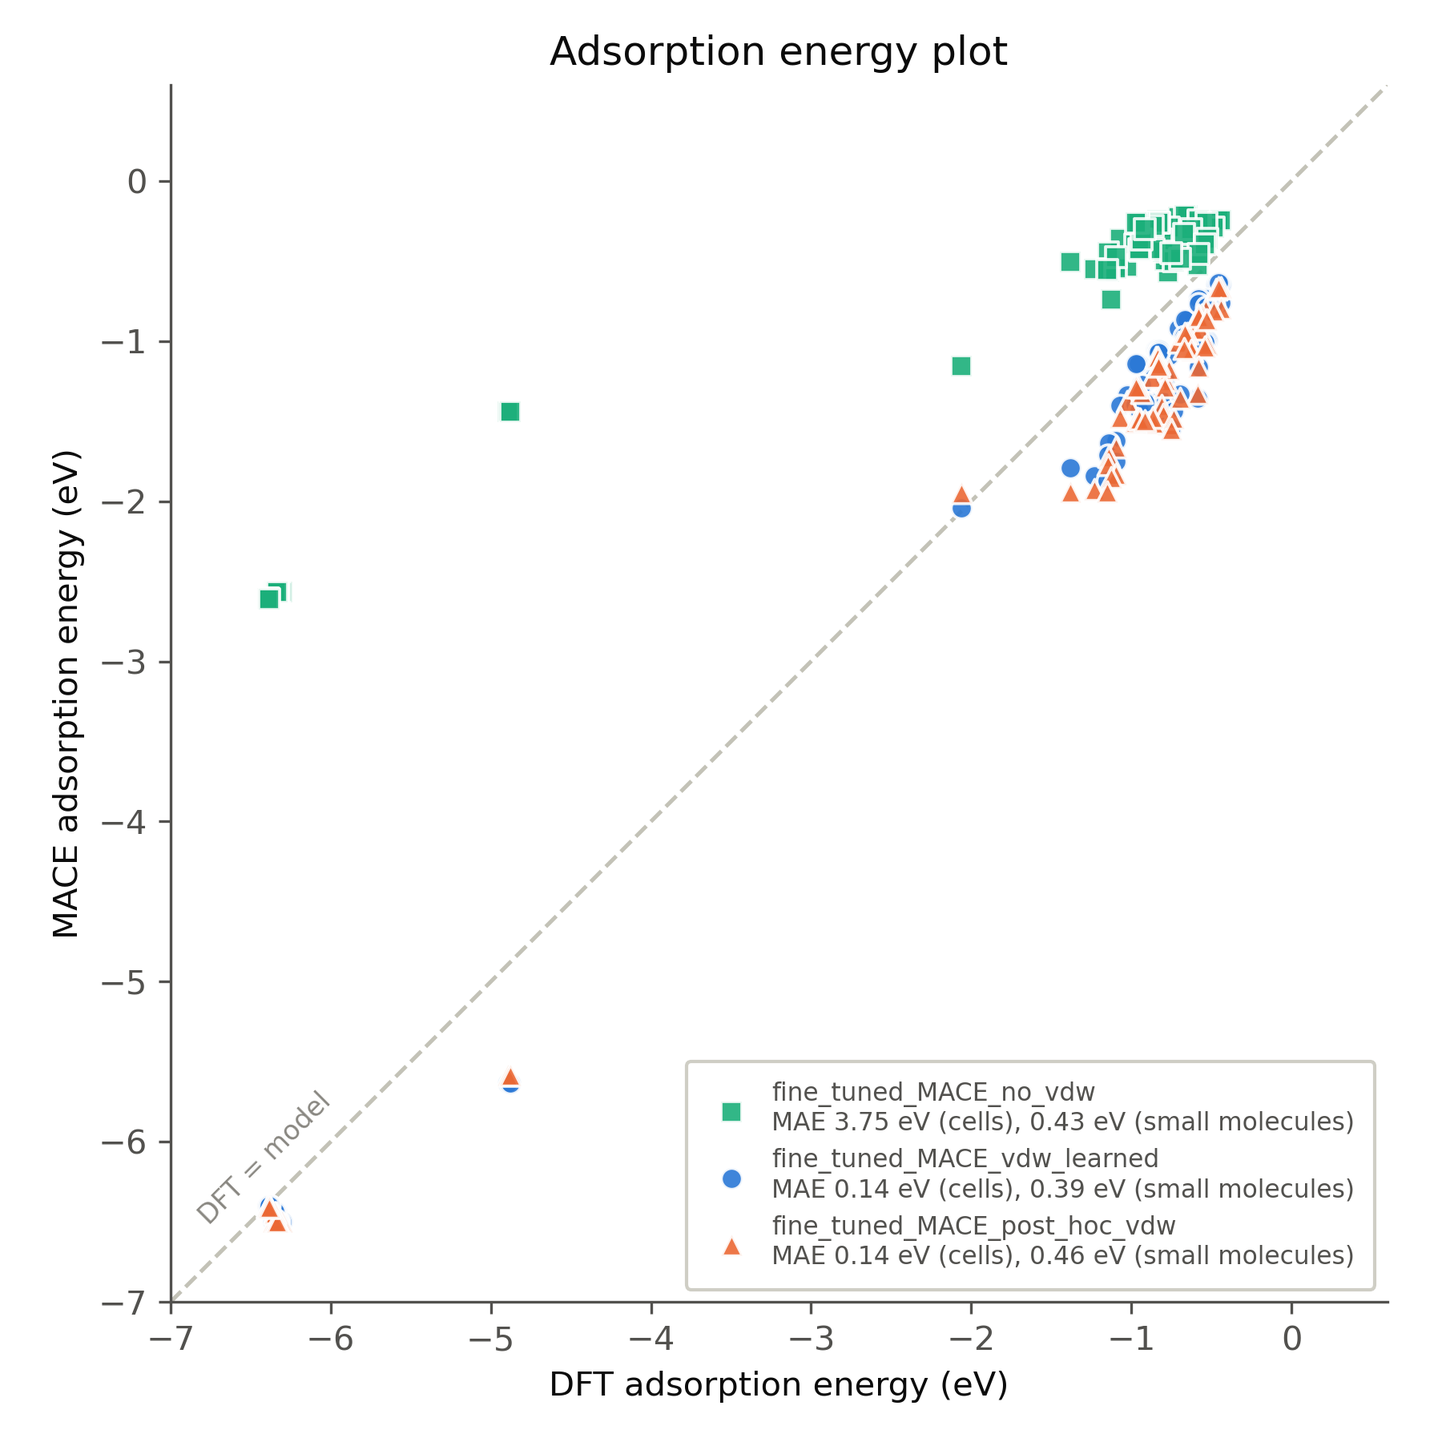
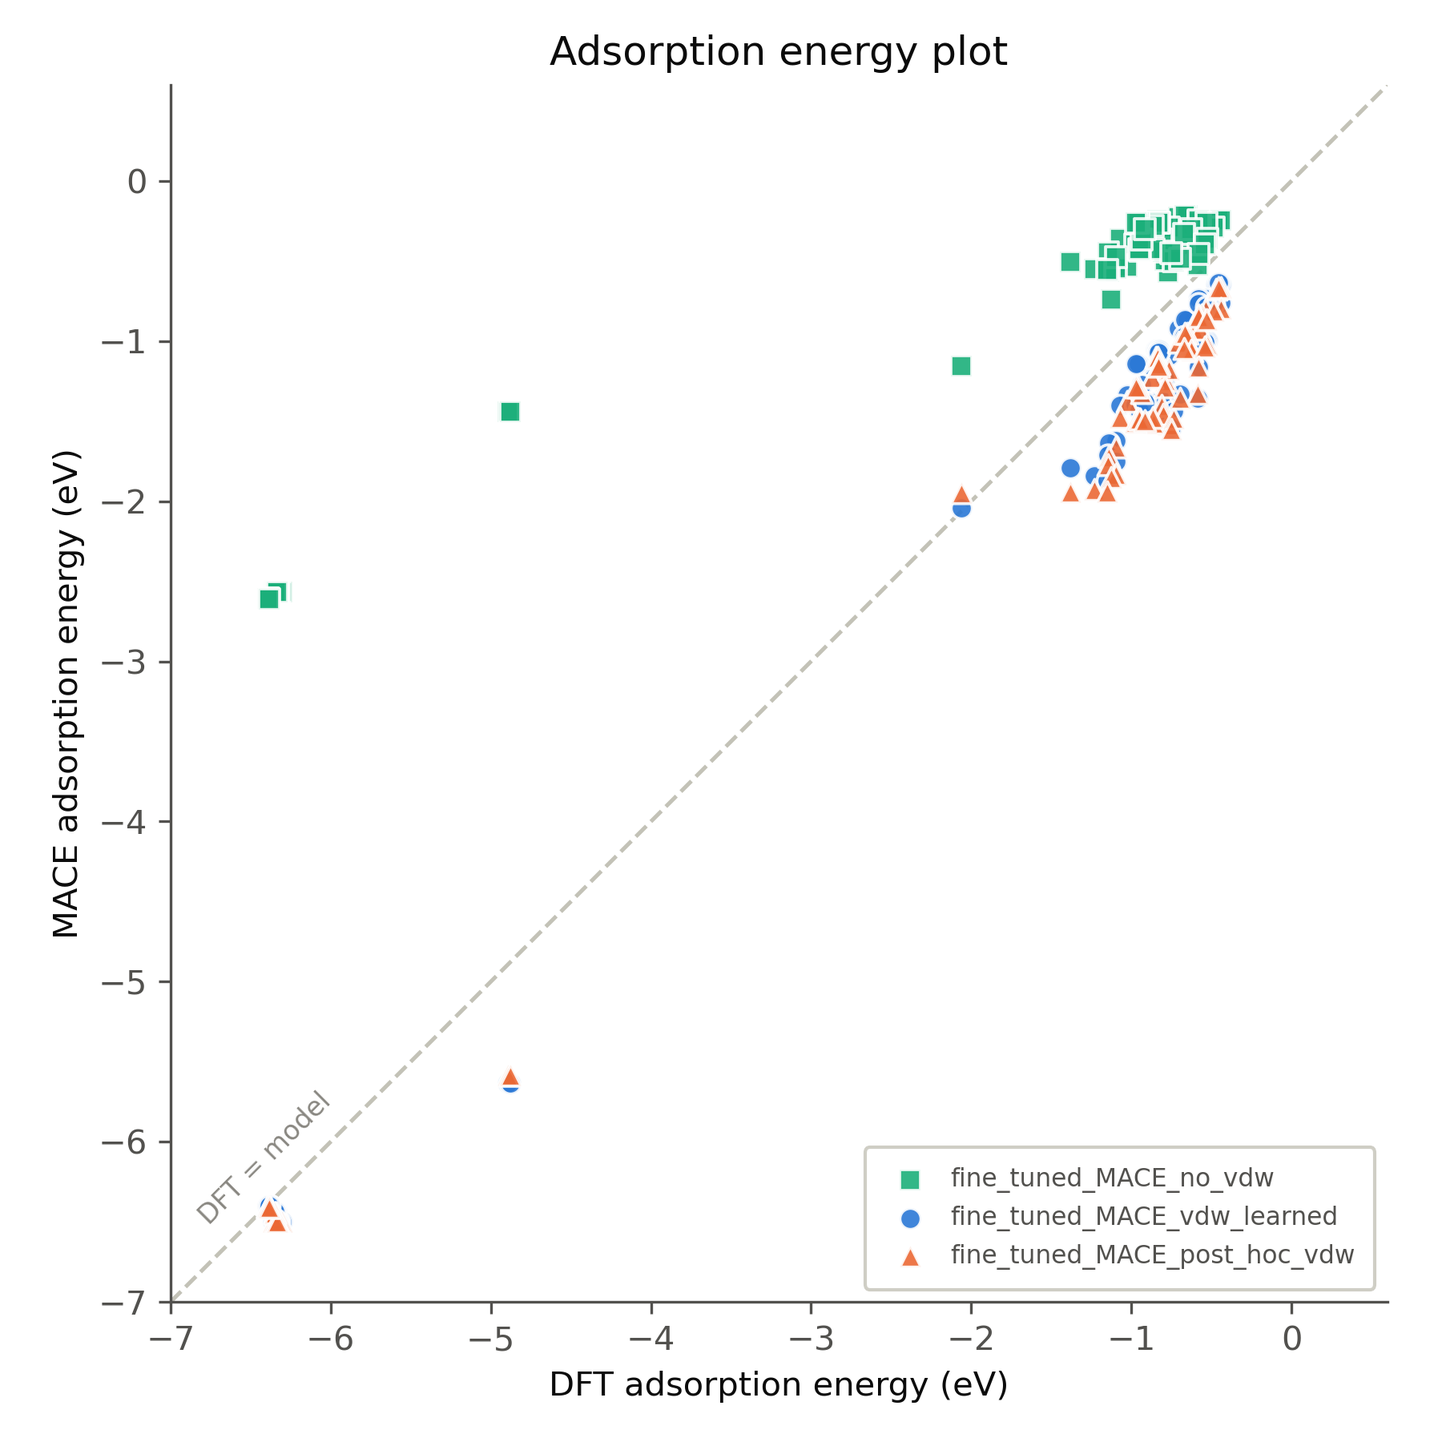
Add REPORT.md with 6x6 D3 scan, m37 height-scan figure and parity plot without MAE legend

Changed region(s): [[0.4978, 0.7467, 0.9644, 0.9022], [0.4667, 0.8711, 0.4978, 0.9022]]

diff --git a/01_tail_vs_cutoff/dry_slab_d3/6x6_no_water/plot_6x6_two_body.py b/01_tail_vs_cutoff/dry_slab_d3/6x6_no_water/plot_6x6_two_body.py
@@ -1,0 +1,88 @@
+#!/usr/bin/env python3
+"""
+Missing two-body D3(BJ) energy vs pair cutoff R for the 6x6 dry cell (9144 atoms).
+
+Job 1877883 was cancelled before the 6x6 ATM calls finished, so only the two-body
+curve exists. Its energies are read from the job log (read only); nothing is
+recalculated. Same quantity and style as the 2x2 full_range_10-50A plot:
+
+    missing(R) = (E(50.27 A) - E(R)) / N     [meV/atom], CN cutoff fixed at 21.17 A
+
+Outputs (this directory): d3_vs_R_6x6_two_body.csv, d3_vs_R_6x6_two_body.png (10-50 A),
+                          d3_vs_R_6x6_two_body_10-15A.png (10-15 A only)
+
+Usage:  module load gpaw/25.7.0; python3 plot_6x6_two_body.py
+"""
+
+import os
+import re
+
+import numpy as np
+
+HERE = os.path.dirname(os.path.abspath(__file__))
+LOG = os.path.join(HERE, "..", "d3_vs_R_1877883.out")
+N = 9144
+R_REF = 50.272                    # dftd3 default two-body cutoff (95 bohr)
+R_CHECK = 80.0
+RECEPTIVE_FIELD = 10.0            # MACE production receptive field
+
+LINE = re.compile(r"^\s+2b\s+cut=\s*([\d.]+)\s+cn=\s*[\d.]+\s+abc=0\s+E=\s*(-?[\d.]+)")
+
+
+def main():
+    with open(LOG) as fh:
+        lines = fh.read().splitlines()
+    start = next(i for i, l in enumerate(lines) if "6x6" in l and "structure" in l)
+    E = {}
+    for line in lines[start:]:
+        m = LINE.match(line)
+        if m:
+            E[float(m.group(1))] = float(m.group(2))
+
+    radii = np.array(sorted(r for r in E if r < R_REF - 1e-6))
+    e2 = np.array([E[r] for r in radii])
+    miss2 = (E[R_REF] - e2) / N * 1000.0
+    dref = (E[R_CHECK] - E[R_REF]) / N * 1000.0
+
+    np.savetxt(os.path.join(HERE, "d3_vs_R_6x6_two_body.csv"),
+               np.column_stack([radii, e2, miss2]), delimiter=",", fmt="%.8f",
+               header="R_A,E_2body_eV,missing_2body_meV_per_atom", comments="")
+    print(f"{len(radii)} radii {radii[0]:g}-{radii[-1]:g} A, reference E({R_REF}) = "
+          f"{E[R_REF]:.6f} eV; E({R_CHECK:g}) - E(ref) = {dref:+.6f} meV/atom")
+    for r, m in zip(radii, miss2):
+        if r in (10, 12, 15, 20, 30):
+            print(f"  R = {r:4.0f} A   missing = {m:.4f} meV/atom")
+
+    make_plot(radii, miss2, "d3_vs_R_6x6_two_body.png")
+    make_plot(radii, miss2, "d3_vs_R_6x6_two_body_10-15A.png", r_max=15.0)
+    print("wrote d3_vs_R_6x6_two_body.png, d3_vs_R_6x6_two_body_10-15A.png / .csv")
+
+
+def make_plot(radii, miss2, name, r_max=None):
+    import matplotlib
+    matplotlib.use("Agg")
+    import matplotlib.pyplot as plt
+
+    if r_max is not None:
+        keep = radii <= r_max + 1e-6
+        radii, miss2 = radii[keep], miss2[keep]
+    fig, ax = plt.subplots(figsize=(8.0, 4.6))
+    ax.plot(radii, miss2, "-s", ms=4, lw=1.8, color="#0072B2", label="D3(BJ) 2-body")
+    rr = np.linspace(radii[0], radii[-1], 200)
+    ax.plot(rr, miss2[0] * (radii[0] / rr) ** 4, ":", lw=1.4, color="#0072B2",
+            label=r"$1/R^4$ from 2-body at %.0f $\AA$" % radii[0])
+    ax.axhline(0, lw=0.8, color="k", alpha=0.4)
+    ax.axvline(RECEPTIVE_FIELD, color="#D55E00", lw=1.2, ls="--", alpha=0.5)
+    ax.set_xlim(radii[0] - 0.3, radii[-1] + 0.3)
+    ax.set_xlabel(r"cutoff radius $R$  ($\AA$)")
+    ax.set_ylabel(r"missing dispersion $(E_{\rm ref}-E(R))/N$  (meV/atom)")
+    ax.set_title(f"D3 energy beyond a global cutoff $R$ (6x6, {N} atoms, ref = {R_REF:.1f} $\\AA$)")
+    ax.grid(alpha=0.25, lw=0.5)
+    ax.legend(fontsize=8, loc="lower right")
+    fig.tight_layout()
+    fig.savefig(os.path.join(HERE, name), dpi=160)
+    plt.close(fig)
+
+
+if __name__ == "__main__":
+    main()

diff --git a/03_porphyrin_eads_learned_vs_posthoc/paper_figures/plot_paper_parity.py b/03_porphyrin_eads_learned_vs_posthoc/paper_figures/plot_paper_parity.py
@@ -4,9 +4,9 @@ graphene, model11 family vs DFT PBE+D4). Same data as
 ../dispersion_inference/eads_parity_s18_style_m11_all[_inset].png; only the presentation differs:
 title, axis label, legend names, no grid, inset without its title.
 
-Writes, in this folder, PDF (vector) and PNG (300 dpi):
-  adsorption_energy_parity.{pdf,png}         without the zoomed-in section
-  adsorption_energy_parity_zoom.{pdf,png}    with the zoomed-in small-molecule section
+Writes, in this folder, PNG (300 dpi):
+  adsorption_energy_parity.png         without the zoomed-in section
+  adsorption_energy_parity_zoom.png    with the zoomed-in small-molecule section
 
 Run: module load gpaw/25.7.0; source /scratch/johnt447/azin/SPICE_MACE/mace_env_cpu_disp/bin/activate
      python3 plot_paper_parity.py
@@ -64,10 +64,8 @@ def make(zoom):
     ax.text(-6.85, -6.55, "DFT = model", rotation=45, color=MUTED, fontsize=8, va="bottom")
     for v, name, colour, marker in SERIES:
         y = np.array([e[v][l] for l in labels])
-        err = np.abs(y - x)
         ax.scatter(x, y, s=40, marker=marker, color=colour, edgecolor=SURFACE, linewidth=0.9,
-                   alpha=0.9, zorder=3,
-                   label=f"{name}\nMAE {err[is_cell].mean():.2f} eV (cells), {err[~is_cell].mean():.2f} eV (small molecules)")
+                   alpha=0.9, zorder=3, label=name)
     ax.set_xlim(lim)
     ax.set_ylim(lim)
     ax.set_aspect("equal")
@@ -102,10 +100,9 @@ def make(zoom):
 
     fig.tight_layout()
     base = os.path.join(HERE, "adsorption_energy_parity" + ("_zoom" if zoom else ""))
-    for ext in ("pdf", "png"):
-        fig.savefig(f"{base}.{ext}", dpi=300, facecolor=SURFACE)
+    fig.savefig(f"{base}.png", dpi=300, facecolor=SURFACE)
     plt.close(fig)
-    print(f"saved {base}.pdf/.png")
+    print(f"saved {base}.png")
 
 
 if __name__ == "__main__":

diff --git a/REPORT.md b/REPORT.md
@@ -1,0 +1,144 @@
+# Does dispersion beyond the MACE receptive field matter for porphyrin on graphene?
+
+*Report on the calculations done for the long-range-dispersion question.*
+
+## 1. The question
+
+Our MACE potentials see 5 Å around each atom and pass messages through two layers, so an atom's energy depends on its surroundings up to a nominal 10 Å. The DFT labels they were trained on are PBE + D4, and D4 dispersion reaches to about 32 Å. The models can therefore only ever have learned the dispersion that lies within 10 Å; whatever D4 contributes from beyond that range is missing from the model.
+
+The question from the meeting was, precisely:
+
+1. **How much dispersion energy lies beyond 10 Å** for this system, and where does it stop growing with the cutoff? The scale given: about 0.1 meV per atom is tiny and can be ignored; about 0.5 meV per atom is unclear and must be checked structurally. The check was to be done with D3 (or D4) alone on the dry slab, over 10-15 Å, without any DFT.
+2. **If it is not tiny, does it change the structure prediction?** That is, the adsorption energies of the candidate unit cells and their ranking, which decides the predicted self-assembled lattice. The suggested test: retrain MACE without van der Waals, then redo the adsorption-energy comparison with three models - no vdW, short-range (learned) vdW, and a "complete" model that adds the long-range correction on top of the vdW-free model - relaxing the structures with each, and see whether the three line up. It was explicitly not accepted that the ranking must stay unchanged just because the missing energy looks similar across structures; this had to be checked on relaxed structures.
+
+Everything below answers these two points. The scripts, raw summaries and plots are in this repository (one folder per test, see Appendix).
+
+## 2. Setup
+
+- **System.** The porphyrin C56H62N8 (tetrakis(4-trimethylammoniophenyl)porphyrin, "TMA", modelled as neutral) on single-layer graphene. 26 candidate unit cells from the supercell search, falling into three lattice clusters (L1/angle 19.68 Å/73.9°, 19.21 Å/72.4°, 18.57 Å/75.2°). Two cells are a smaller 234-atom type; the other 24 are 254 atoms.
+- **DFT reference.** GPAW, plane waves 500 eV, PBE, k 2×2×1, energy convergence 1e-6 eV, D4 (PBE parameters) added through ASE's SumCalculator; graphene fixed. Adsorption energy E_ads = E(system) − E(graphene) − E(relaxed isolated molecule).
+- **Models.** All MACE, r_max 5 Å, 2 interaction layers (10 Å nominal receptive field), same architecture and fine-tuning structures. Three variants that differ only in how dispersion enters:
+  - *no vdW*: model11_no_d4, trained on PBE-only labels (D4 removed from every label).
+  - *learned vdW (10 Å)*: model11, trained on PBE+D4 labels; dispersion is learned implicitly within the receptive field.
+  - *post-hoc vdW*: model11_no_d4 with full-range D4 (dftd4, same parameters as the DFT labels) added to every energy and force call, including during the relaxations. This is the "complete" long-range model.
+- **"Missing dispersion beyond R".** For a cutoff R, the D4 (or D3) energy of the whole system computed with pairs only up to R, minus the full-range value; reported per atom. A model with receptive field R can at best have learned the part within R.
+
+## 3. Part 1 - How much dispersion lies beyond 10 Å?
+
+### Figure 1 - D4 beyond a cutoff, full wet system
+
+**What it measures.** For the production system (graphene + porphyrin + water, 2087 atoms, MD frame 1520) the D4 energy per atom that lies beyond a cutoff R, for R from 10 Å to D4's own two-body limit at 31.75 Å. D4 is the dispersion the models were trained with, so this is directly the part a 10 Å model cannot have learned. Computed per atom with the exact pairwise decomposition (each atom's D4 energy with and without neighbours beyond R), averaged over all atoms.
+
+![D4 missing beyond R, wet slab](01_tail_vs_cutoff/frame_1520/d4_tail_vs_R_all_atoms.png)
+
+*Figure 1. Dispersion (D4) energy per atom beyond a cutoff R for the wet porphyrin/graphene slab (frame 1520). Vertical lines: the model's 10 Å receptive field and the D4 two-body cutoff (31.75 Å).*
+
+**Analysis.** At the model's 10 Å the missing D4 energy is −0.60 meV/atom (−0.58 for frame 200; the frame-to-frame variation is 0.02 meV). It decays smoothly: extending the range to 12, 14, 16 and 20 Å would recover 45, 67, 79 and 90 % of it, and the curve reaches zero only at the D4 limit. So the tail is real but small, and most of it sits between 10 and 20 Å. On the supervisor's scale this is the "about half a meV per atom" case, which must be checked structurally - it cannot be dismissed from this plot alone. (A large part of the mean tail is a constant per-element offset that a fitted model absorbs into its atomic reference energies; what can hurt the model is the part that varies between configurations, see Part 2.)
+
+### Figure 2 - D3 beyond a cutoff, dry 6×6 slab (the check requested in the meeting)
+
+**What it measures.** The same quantity, but with D3(BJ) instead of D4 and on a dry slab without water: frame 1520 with the water removed, repeated 6×6 laterally (graphene + 36 porphyrins, 9144 atoms, 118 × 106 Å cell), from 10 to 50 Å, using the stand-alone `dftd3` program with a global pair cutoff (reference: the `dftd3` default of 50.3 Å). This is exactly the test proposed in the meeting: an analytical dispersion energy versus cutoff, no DFT involved. The cell is 51 Å in half-width, so over the whole range no atom sees its own periodic image and every point is a clean measurement. The curve is the two-body D3 term.
+
+![D3 missing beyond R, dry 6x6 slab](01_tail_vs_cutoff/dry_slab_d3/6x6_no_water/d3_vs_R_6x6_two_body.png)
+
+*Figure 2. Dispersion (D3, two-body) energy per atom beyond a cutoff R for the dry 6×6 porphyrin/graphene slab, with a 1/R⁴ guide from the 10 Å value. Dashed line: the model's 10 Å receptive field.*
+
+![D3 missing beyond R, dry 6x6 slab, 10-15 A](01_tail_vs_cutoff/dry_slab_d3/6x6_no_water/d3_vs_R_6x6_two_body_10-15A.png)
+
+*Figure 2b. The same curve zoomed on 10-15 Å, the range asked for in the meeting.*
+
+**Analysis.** D3 gives the same picture as D4: −0.60 meV/atom missing at 10 Å, −0.30 at 12 Å, −0.12 at 15 Å, −0.04 at 20 Å and −0.006 at 30 Å, i.e. extending the range to 15 and 20 Å would recover 80 and 94 % of it. The decay follows 1/R⁴, as expected for a molecule layer over a 2D sheet (log-log slope −4.0 over 10-20 Å), so the curve is essentially flat by 15-20 Å. The D3 and D4 numbers at 10 Å agree to 1 %, and removing the water changes nothing, so the tail is a property of the dry porphyrin/graphene layer itself.
+
+## 4. Part 2 - Does the missing tail differ between structures?
+
+The structure prediction depends on *differences* of adsorption energies between the candidate cells, not on their absolute values. A missing tail that is the same for every cell shifts all of them equally and cannot change which one is most stable.
+
+### Figure 3 - Part of E_ads beyond R, by lattice cluster
+
+**What it measures.** For each of the 26 DFT-relaxed candidate cells, the D4 contribution to the adsorption energy that lies beyond a cutoff R: tail(system) − tail(graphene) − tail(isolated molecule), for R from 10 to 31.75 Å. Shown as the mean per lattice cluster, so the curves can be compared with the DFT energy gaps between clusters (12 and 41 meV).
+
+![E_ads tail by cluster](02_eads_ranking_vs_cutoff/eads_tail_by_cluster_vs_R.png)
+
+*Figure 3. The part of the adsorption energy that a model with cutoff R misses, averaged over the cells of each lattice cluster (DFT-relaxed geometries, D4).*
+
+**How each point is calculated.** One point = one lattice cluster at one cutoff R:
+
+1. **Take one cell's DFT-relaxed structure**, and treat three things separately: the full system (molecule on graphene), the graphene alone, and the molecule alone.
+2. **For each atom, compute its D4 dispersion energy twice:** in the full periodic structure (what the DFT labels contain), and in a sphere ("ball") of radius R cut out around that atom, so it only feels neighbours within R (what a model with cutoff R can see). The difference is what that atom misses beyond R.
+3. **Add this up over all atoms** of each of the three parts, giving the missing energy of the system, of the graphene and of the molecule.
+4. **Combine them like an adsorption energy:** missing E_ads = system − graphene − molecule. At R = 10 Å this is about −98 meV for every cell.
+5. **Average over the cells in the cluster** (10, 4 or 10 cells). That average is the point plotted at this R.
+
+This is repeated for R = 10, 10.5, … up to 31.75 Å, where D4 stops; at 31.75 Å the missing part should be about zero, which the script checks. Only D4 is used: no DFT is re-run and no MACE model is involved.
+
+**Analysis.** At 10 Å every cell misses about −97.7 meV, and the clusters differ from each other by less than 0.5 meV. That is far below the 12 and 41 meV DFT gaps, so the ranking can't change. Individual cells differ by at most 1.7 meV at 10 Å (2.5 meV at any cutoff), and none of the 325 cell pairs changes order at 10 Å; the only swap at any cutoff is a pair 0.36 meV apart in DFT.
+
+| Cell | Missing E_ads at 10 Å |
+|---|---|
+| m-8_n-1_m-5_n-8 (misses the most) | −98.93 meV |
+| m0_n8_m8_n6 (misses the least) | −97.23 meV |
+| Difference | **1.7 meV** |
+
+That matters because two cells can only swap places if the difference in what they miss is bigger than their DFT energy difference. The most any two cells can differ in "what their E_ads is missing" is 1.7 meV, so only cells closer than that in DFT could ever swap. At 10 Å no pair swaps.
+
+As agreed in the meeting, this still had to be confirmed on structures *relaxed* with the models, which is Part 3.
+
+## 5. Part 3 - The three-model comparison on relaxed structures
+
+### Figure 4 - Adsorption energies, three models against DFT
+
+**What it measures.** Each of the three models relaxed all 26 candidate cells from the DFT starting structures with the DFT protocol (graphene fixed, bare graphene single point, isolated molecule relaxed), and its adsorption energy is plotted against the DFT value. The same was done for 57 small C/H/N molecules on graphene from the foundation-model data (inset), as an independent set of adsorbates. The diagonal is perfect agreement; the legend gives the mean absolute error (MAE).
+
+![Adsorption-energy parity](03_porphyrin_eads_learned_vs_posthoc/paper_figures/adsorption_energy_parity_zoom.png)
+
+*Figure 4. Adsorption energies from the three models versus DFT (PBE+D4): 26 porphyrin candidate cells (left cluster near −6.4 eV) and 57 small molecules on graphene (inset). no vdW = model11_no_d4; learned vdW = model11; post-hoc vdW = model11_no_d4 + full-range D4.*
+
+**Analysis.**
+
+- *Without dispersion* the porphyrin binds by −2.5 eV on average against DFT's −6.2 eV (MAE 3.75 eV) and sits 0.31 Å too high. The gap is almost exactly the D4 share of the DFT adsorption energy (−4.4 eV): dispersion is most of the binding here.
+- *Learned and post-hoc dispersion give the same result.* Both have MAE 0.14 eV on the 26 cells (0.03-0.04 eV on the 12 cells seen in fine-tuning, 0.23 eV on the 14 held-out ones), the same relaxed adsorption height (0.01 Å from DFT), and their per-cell adsorption energies differ by −0.9 ± 15 meV. The post-hoc model's D4 part is −4.39 eV against −4.38 eV in DFT; its remaining error is in the PBE part of the model, not in the dispersion. In other words, adding the full 32 Å dispersion on top of the vdW-free model lands exactly where the 10 Å model already was.
+- *Small molecules (inset)* show the same: MAE 0.39 eV (learned) vs 0.46 eV (post-hoc), both with slope 1.07 against DFT; the dispersion-free model is flat (slope 0.42). The models overbind the small molecules by about 0.5 eV in both dispersion variants - a near-surface model error shared by both, unrelated to range.
+
+### Figure 5 - Adsorption-energy profile of a small molecule, after the small-molecule re-fit
+
+**What it measures.** The test molecule is m37 (C17H19N3), held out of fit. It is lifted rigidly off the surface in 21 steps, and at each height the adsorption energy is computed as a single point, with the molecule relaxed alone (same method) as reference. This is done with DFT (PBE+D4) and the three model variants: learned vdW (d4_from_m11), post-hoc D4 (no_d4_from_m11 + full D4) and no vdW (no_d4_from_m11). The dashed line is the D4 part of the DFT curve.
+
+![m37 adsorption-energy profile, model13_sm from model11](08_height_scan_m37/eads_profile_m37_model13_sm_from_m11.png)
+
+*Figure 5. Adsorption energy of m37 versus its shortest distance to graphene for DFT and the three model13_sm (from model11) variants. Inset: the well. Vertical line: the 5 Å model cutoff.*
+
+**Analysis.**
+
+- *In the well* (2.48 Å) DFT gives −1.23 eV. The learned model gives −0.99 eV (0.24 eV too weak) and the post-hoc model −1.45 eV (0.22 eV too strong). Before the re-fit, model11 gave −1.79 and −1.88 eV (0.56 and 0.64 eV too strong), so the re-fit cut the well error by about two thirds, but neither variant matches DFT.
+
+### Ranking of the lattice clusters
+
+Whether the long-range term changes the *ordering* was checked:
+
+| Model | Cluster order (most stable first) |
+|---|---|
+| DFT (PBE+D4) | 19.68/73.9° (−6.387) < 19.21/72.4° (−6.346) < 18.57/75.2° (−6.334) |
+| model_01, learned vdW | 19.68 < 19.21 < 18.57 - **same as DFT** |
+| model_01_no_d4 + post-hoc D4 | 19.68 < 19.21 < 18.57 - **same as DFT** |
+
+## 6. Answer
+
+- 
+- 
+- 
+- 
+
+## Appendix - where the results live
+
+| Part | Repository folder | Original location |
+|---|---|---|
+| Fig. 1 | `01_tail_vs_cutoff/` (`measure_d4_tail_vs_R_all_atoms.py`, `summary.txt`) | `analysis/d4_strip_test/all_atoms_vs_R/` |
+| Fig. 2 | `01_tail_vs_cutoff/dry_slab_d3/6x6_no_water/` (`plot_6x6_two_body.py`, `d3_vs_R_6x6_two_body.csv`; energies from `measure_d3_vs_R.py`, job 1877883) | `analysis/d4_strip_test/d3_vs_R/6x6_no_water/` |
+| Fig. 3 | `02_eads_ranking_vs_cutoff/` (`measure_eads_tail_vs_R.py`, `plot_eads_tail_by_cluster.py`, `summary.txt`) | `analysis/d4_strip_test/eads_vs_R/` |
+| Fig. 4, ranking | `03_porphyrin_eads_learned_vs_posthoc/` (`relax_with_dispersion.py`, `report_m11/`, `paper_figures/`) | `analysis/ads_eng_calc/dispersion_inference/`, `paper_figures/` |
+| Fig. 5 | `08_height_scan_m37/` (plot + E_int table, model13_sm from model11) | `analysis/ads_eng_calc/height_scan_m37/results/04_model13_sm_from_m11/` (all model families: `results/INDEX.md`) |
+| Small molecules | `04_small_molecules/` | `analysis/ads_eng_calc/small_molecules/` |
+| Long-range screen | `05_longrange_screen/` | `analysis/ads_eng_calc/longrange_candidates/` |
+| Multilayers | `06_multilayer_graphene/` | `analysis/ads_eng_calc/multilayer_test/` |
+
+Models: `SPICE_MACE/model11_adsorption_dft_activelearning/model11_stagetwo.model` (learned vdW), `SPICE_MACE/model11_no_d4/model11_no_d4_stagetwo.model` (no vdW; + dftd4 for post-hoc), foundation lineage `SPICE_MACE/model_01/`. Dispersion at inference: dftd4 3.7 (D4, PBE parameters) via ASE SumCalculator; D3(BJ) via the `dftd3` binary (module gpaw/25.7.0) for the cutoff scan and torch-dftd for the screen.
